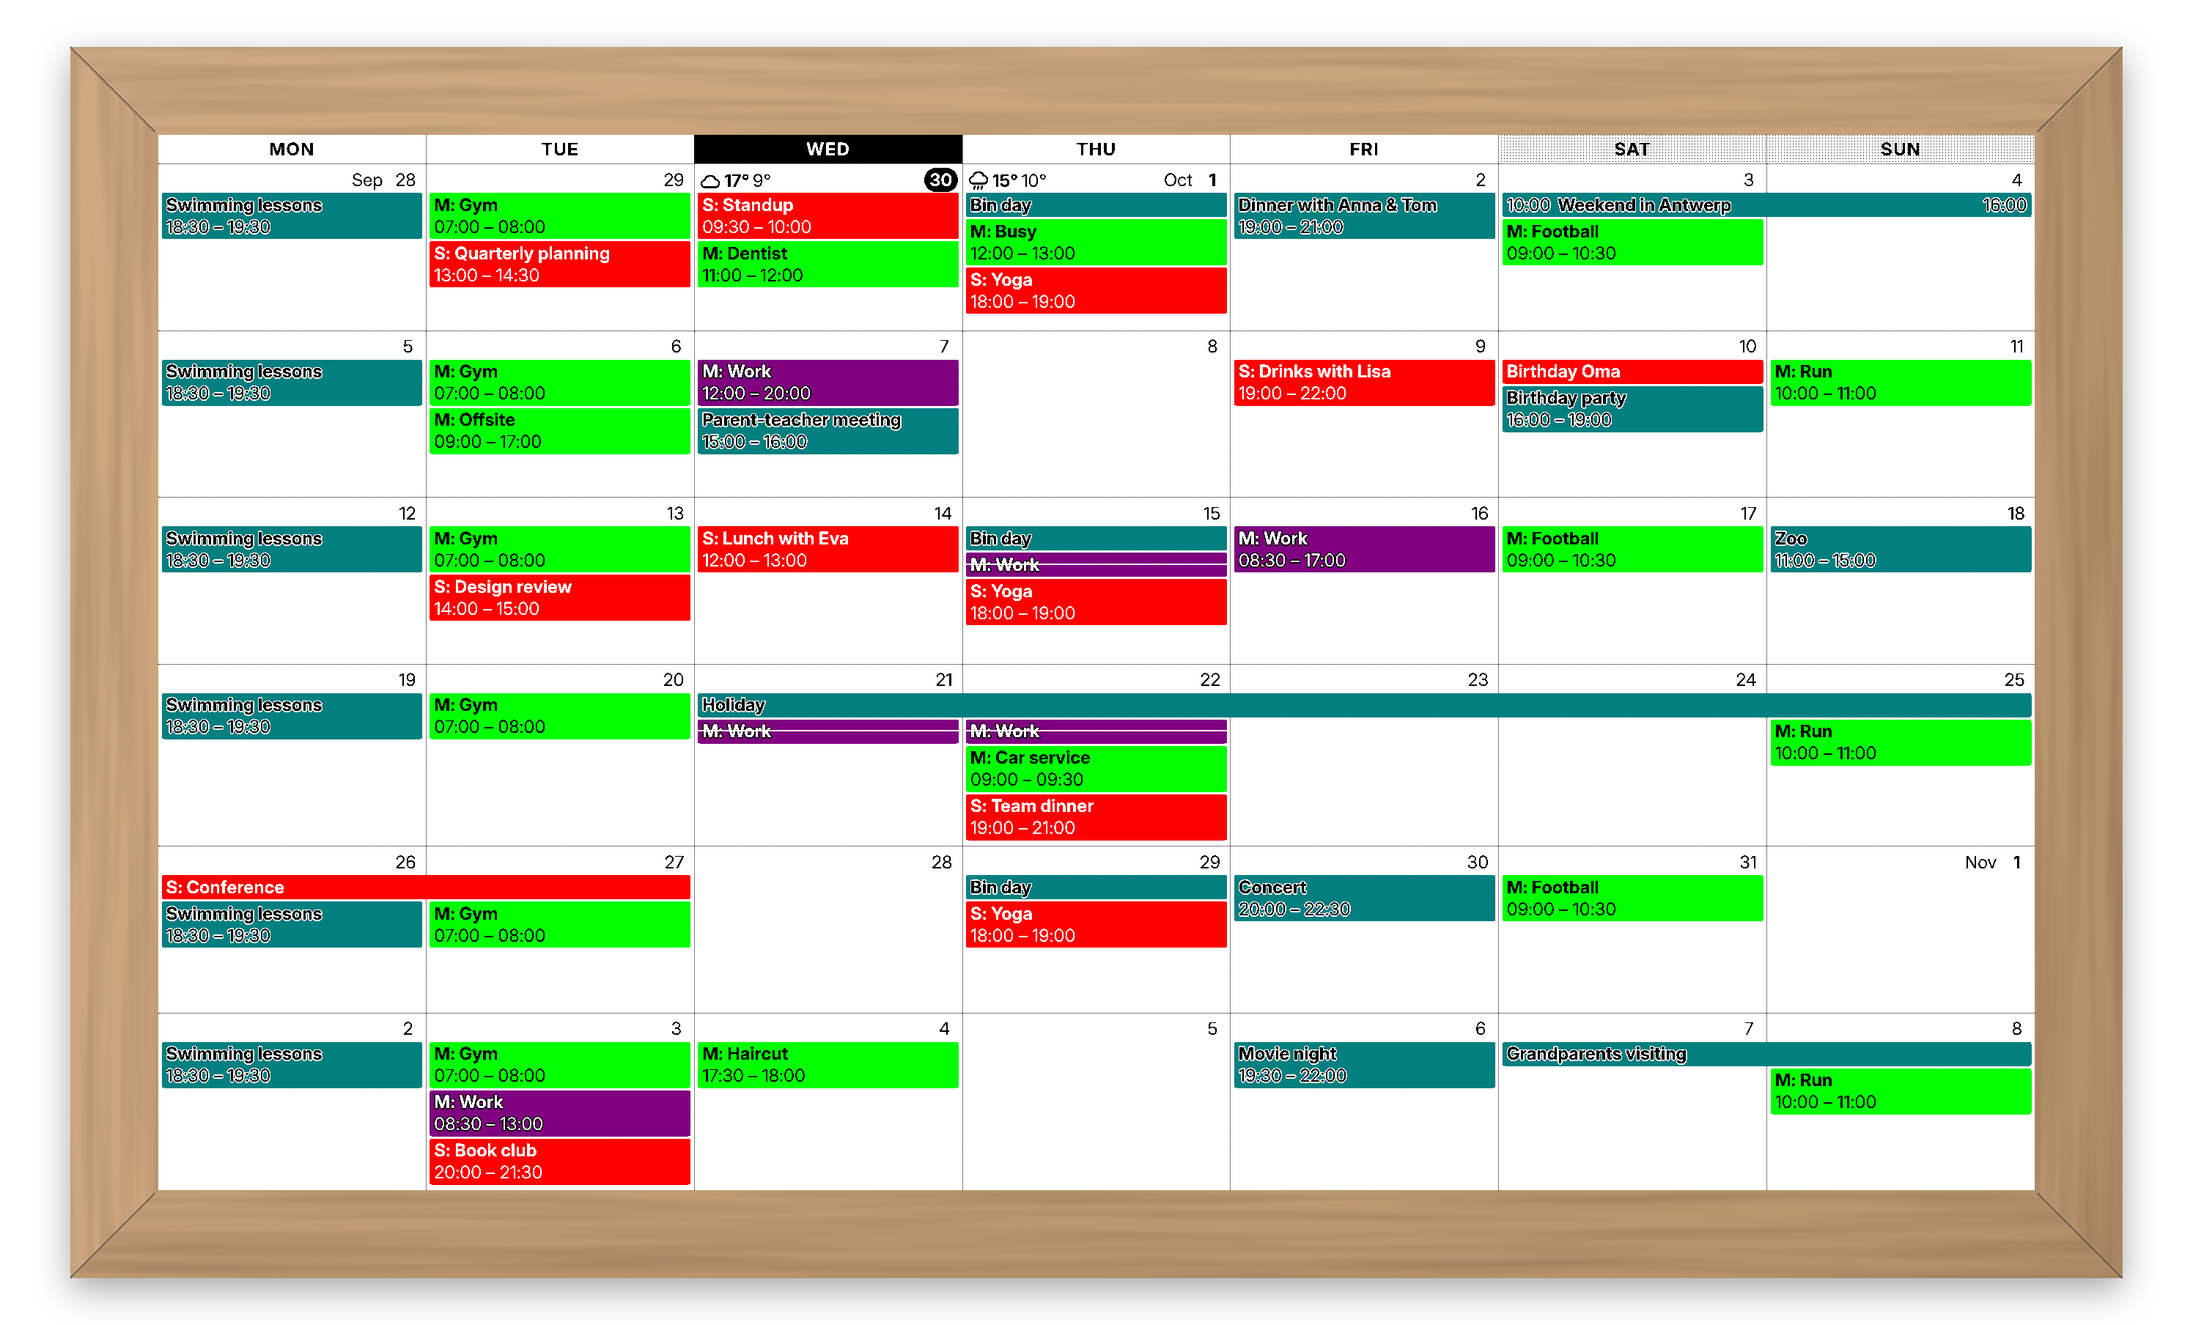
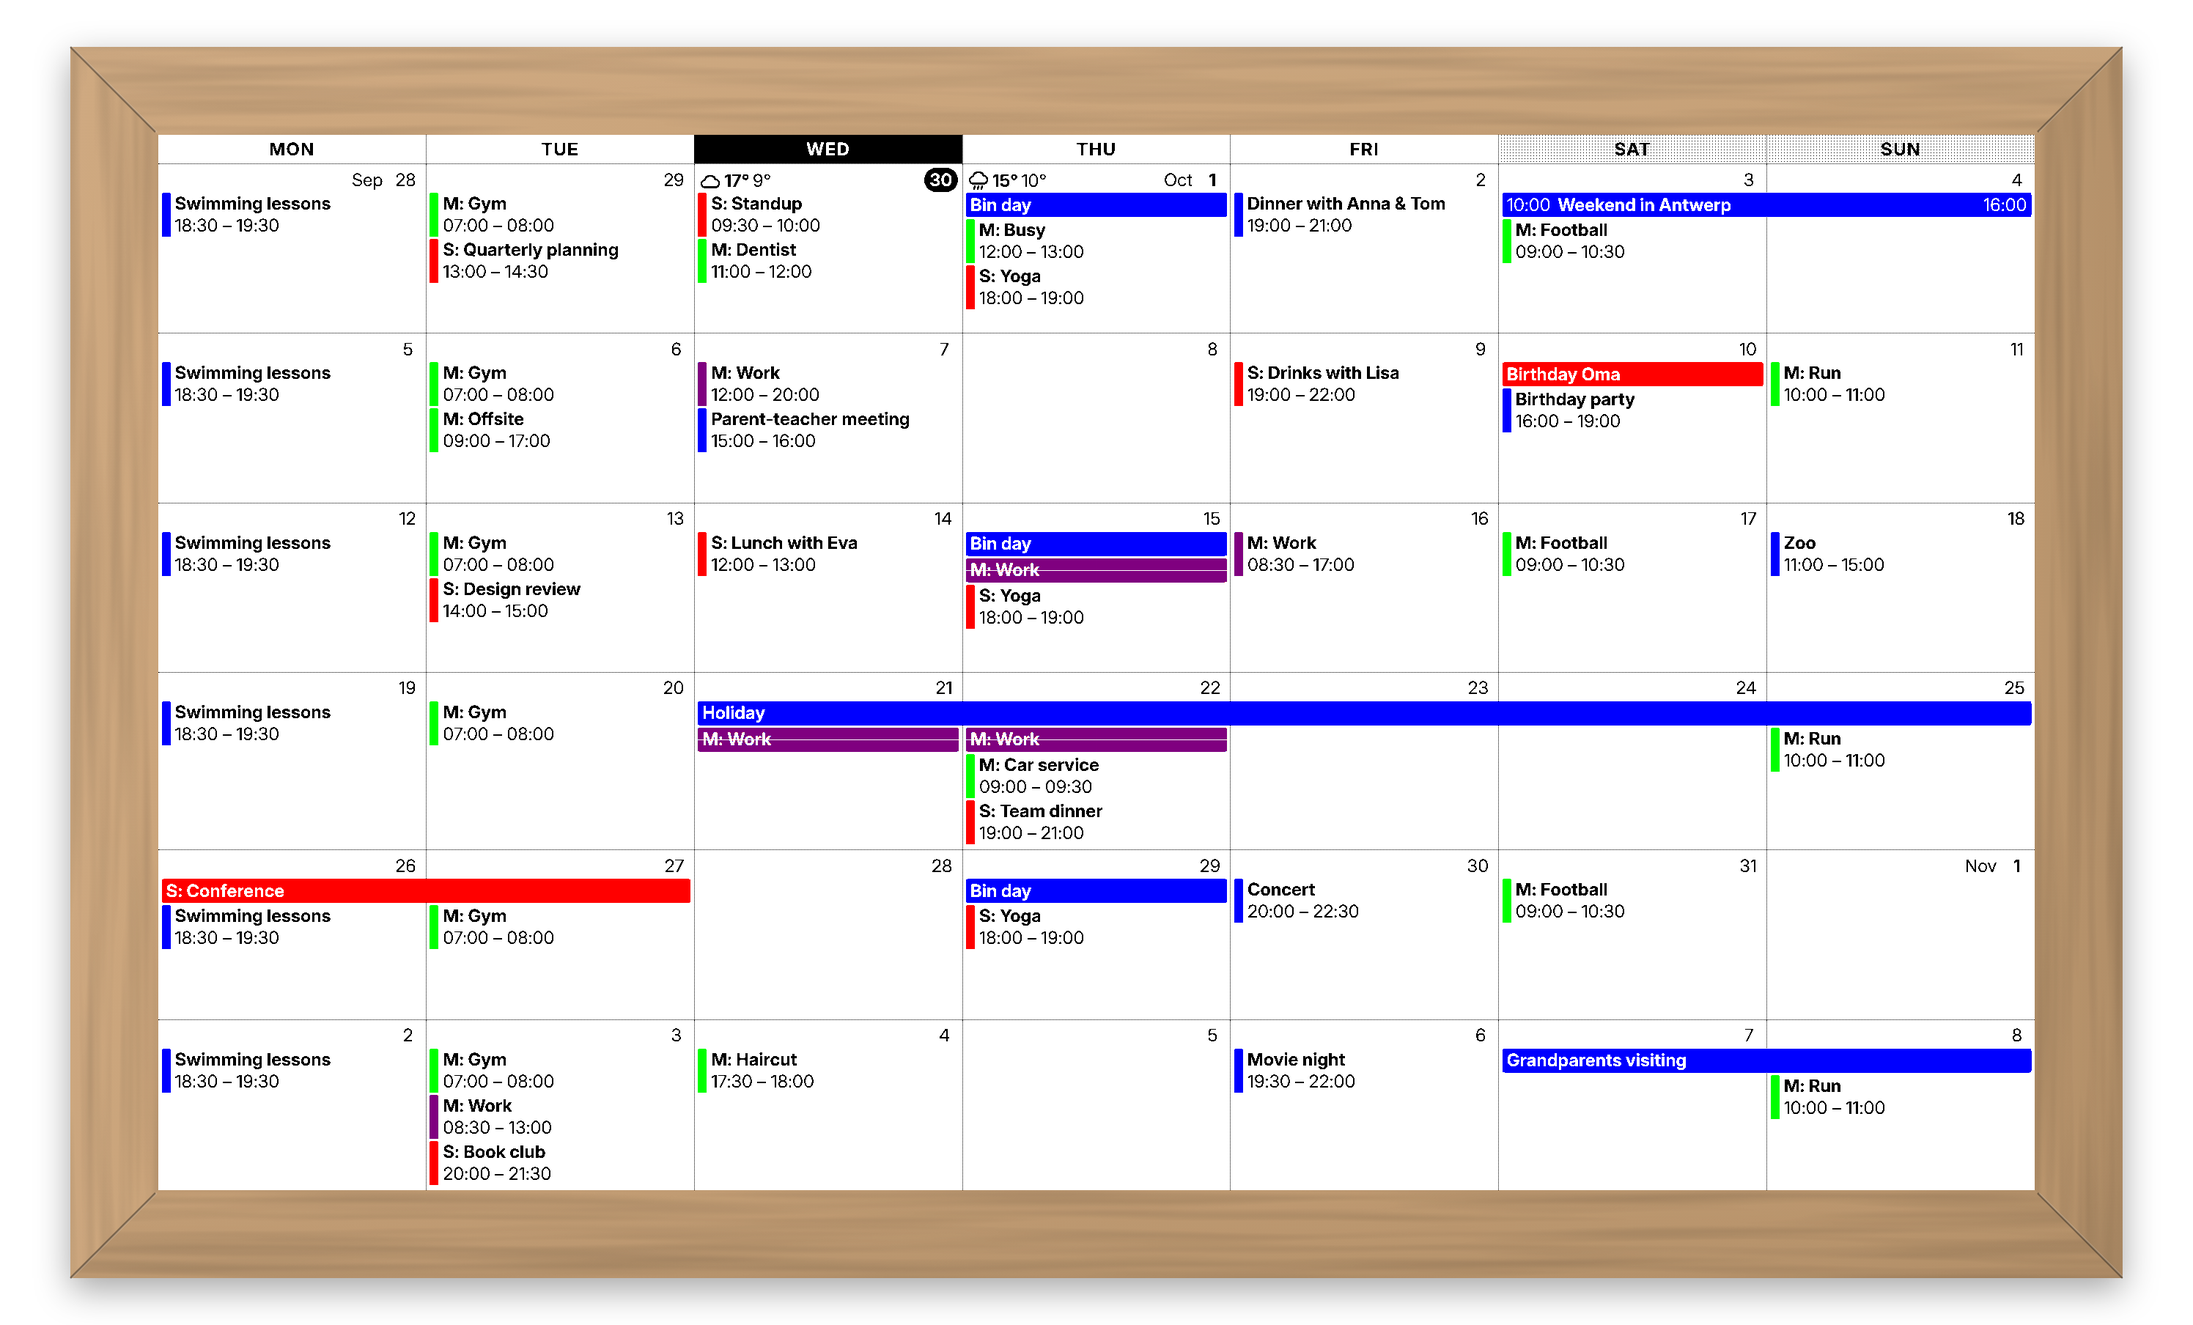
Frame: bars and bands for coloured calendars, text colour by ink
On a colour panel with a few inks (the TRMNL Frame's Spectra 6):

- New setting Color style. Bars and bands (default): a coloured calendar's
  timed events keep black text on paper next to a bar in the colour; all-day
  events and events over several days stay filled bands. Filled events fills
  every event, as before and as other screens do.
- Text colour by ink: the inks print darker than their screen colours, so
  white text on every ink but yellow and on an even mix of two dark inks
  (purple, cyan, dark shades), black on yellow and its tints. The outline is
  only for a pattern of a dark and a light ink. Read from what the framework
  paints (background colour and the pattern's fills).
- Shared calendar colours snap to what the panel prints evenly: an ink,
  purple or teal, black or white for a grey.

The TRMNL X and OG are unchanged.

Claude-Session: https://claude.ai/code/session_017arraexGkTKqtM3A8ayfAW

diff --git a/plugin/trmnl-com-polling/tests/plugin_spec.rb b/plugin/trmnl-com-polling/tests/plugin_spec.rb
@@ -77,16 +77,28 @@ RSpec.describe 'Rolling Month Calendar (Home Assistant)' do
     [...document.querySelectorAll('.mono-event')].map(function(el) {
       var title = el.querySelector('.mono-event-title') || el;
       var style = getComputedStyle(title), text = style.color;
-      // a dither pattern (1-/2-bit, a tint on the Frame) mixes inks: the text needs its outline
-      var patterned = /url\\(/.test(getComputedStyle(el).backgroundImage);
+      // a dither pattern (1-/2-bit, a tint on the Frame) mixes inks: the text needs its outline,
+      // or to stand out from every ink in it (the Frame's purple: red and blue, white text)
+      var box = getComputedStyle(el), patterned = /url\\(/.test(box.backgroundImage);
       var stroke = el.classList.contains('text-stroke') && style.getPropertyValue('--tn-text-stroke-color').trim();
+      var fills = [box.backgroundColor];
+      if (patterned && stroke) fills = [stroke];
+      else if (patterned) {
+        fills = (decodeURIComponent(box.backgroundImage).match(/<path\\b[^>]*>/g) || [])
+          .map(function(path) { return (/\\bfill=['"]([^'"]+)['"]/.exec(path) || [0, 'black'])[1]; })
+          .concat(/, 0\\)$/.test(box.backgroundColor) ? [] : [box.backgroundColor]);
+      }
       var probe = document.createElement('span');
-      probe.style.color = stroke || text;
       title.appendChild(probe);
-      var fill = patterned ? getComputedStyle(probe).color : getComputedStyle(el).backgroundColor;
+      var lum = function(c) {
+        probe.style.color = c;
+        var v = getComputedStyle(probe).color.match(/[\\d.]+/g).map(Number);
+        return 0.299 * v[0] + 0.587 * v[1] + 0.114 * v[2];
+      };
+      var worst = fills.map(function(fill) { return [title.textContent, fill, text, Math.abs(lum(fill) - lum(text))]; })
+        .sort(function(a, b) { return a[3] - b[3]; })[0];
       probe.remove();
-      var lum = function(c) { var v = c.match(/[\\d.]+/g).map(Number); return 0.299 * v[0] + 0.587 * v[1] + 0.114 * v[2]; };
-      return [title.textContent, fill, text, Math.abs(lum(fill) - lum(text))];
+      return worst;
     }).filter(function(e) { return e[3] < 100; }).map(function(e) { return e.slice(0, 3); })
   JS
 
@@ -104,17 +116,37 @@ RSpec.describe 'Rolling Month Calendar (Home Assistant)' do
   end
 
   # Colour names print in the Frame's inks, greys and tints as patterns, which get the 1-bit
-  # treatment (outlined text, weekends shaded in the header only), white text outlined in black
-  # on a dark mix; each event's text stays readable
-  it 'draws readable events in colour on the Frame' do
-    colors = custom_fields.merge(calendar_colors: 'red,gray-35,purple-30')
+  # treatment (weekends shaded in the header only). With "Color style" on Filled events every
+  # event is filled: plain text on an ink and on an even mix of two dark inks (purple-30),
+  # outlined text on a pattern of a dark and a light ink (a grey); each stays readable
+  it 'draws readable filled events in colour on the Frame' do
+    colors = custom_fields.merge(calendar_colors: 'red,gray-35,purple-30', color_style: 'fill')
     screen = trmnl.render(**FRAME, now:, custom_fields: colors, mocks:)
 
     expect(screen).to have_text('Parent-teacher meeting')
     expect(screen).to have_css('.trmnl-calendar--patterned')
-    expect(screen).to have_css('.mono-event.bg--gray-35.text-stroke')
+    expect(screen).to have_css('.mono-event--fill.bg--red', text: 'Parent-teacher meeting')
+    expect(screen).to have_css('.mono-event.bg--gray-35.text-stroke.text-stroke--black')
     expect(screen).to have_no_css('.mono-event.bg--red.text-stroke')
-    expect(screen).to have_css('.mono-event.bg--purple-30.text-stroke.text-stroke--black')
+    expect(screen).to have_css('.mono-event.bg--purple-30')
+    expect(screen).to have_no_css('.mono-event.bg--purple-30.text-stroke')
+    expect(screen.evaluate(UNREADABLE_EVENTS)).to eq([])
+    expect(screen).to have_no_overflow(except: CLIPPED)
+  end
+
+  # ... and by default (Bars and bands) only all-day events and events over several days: a
+  # timed event keeps black text on white, next to a bar in the calendar's colour, with an
+  # edge where the colour is as light as the paper (yellow)
+  it 'draws timed events with a bar in the colour on the Frame' do
+    colors = custom_fields.merge(calendar_colors: 'red,yellow,purple-30')
+    screen = trmnl.render(**FRAME, now:, custom_fields: colors, mocks:)
+
+    expect(screen).to have_css('.mono-event--bar:has(.mono-event-bar.bg--red.trmnl-bar--ink)', text: 'Parent-teacher meeting')
+    expect(screen).to have_no_css('.mono-event-bar.bg--red.trmnl-bar--edge')
+    expect(screen).to have_css('.mono-event-bar.bg--yellow.trmnl-bar--ink.trmnl-bar--edge')
+    expect(screen).to have_css('.mono-event-bar.bg--purple-30.trmnl-bar--ink')
+    expect(screen).to have_no_css(".mono-event--bar[class*='bg--']")
+    expect(screen).to have_css('.mono-event--fill.bg--red', text: 'Bin day')
     expect(screen.evaluate(UNREADABLE_EVENTS)).to eq([])
     expect(screen).to have_no_overflow(except: CLIPPED)
   end

diff --git a/plugin/trmnl-com-merge/tests/plugin_spec.rb b/plugin/trmnl-com-merge/tests/plugin_spec.rb
@@ -72,19 +72,39 @@ RSpec.describe 'Rolling Month Calendar' do
   # calendar without one, matched to the screen's palette. Events that come without one
   # (CalDAV drops it from an event with a COLOR of its own) take the calendar's.
   SHARED = { 'Swimming lessons' => '#33B679' }.freeze # Sage
+  let(:shared) do
+    variables.transform_values do |data|
+      next data unless data.is_a?(Hash) && data['events']
+
+      data.merge('events' => data['events'].map { |e| e.merge('background_color' => SHARED[e['summary']]).compact })
+    end
+  end
+
+  # ... a grey on the TRMNL X; on the Frame the green ink, with "Color style" on Filled events
   [['v2', 'bg--gray-'], ['frame', 'bg--green']].each do |device, fill|
     it "draws the colours calendar plugins share on #{device}" do
-      shared = variables.transform_values do |data|
-        next data unless data.is_a?(Hash) && data['events']
-        data.merge('events' => data['events'].map { |e| e.merge('background_color' => SHARED[e['summary']]).compact })
-      end
       palette = device == 'frame' ? { palette: 'color-6a' } : {}
-      screen = trmnl.render(device:, **palette, now:, variables: shared, custom_fields:)
+      screen = trmnl.render(device:, **palette, now:, variables: shared,
+                            custom_fields: custom_fields.merge('color_style' => 'fill'))
 
-      expect(screen).to have_css("[class*='#{fill}']", text: 'Swimming lessons')
-      expect(screen).to have_css("[class*='#{fill}']", text: 'Bin day')
+      expect(screen).to have_css(".mono-event--fill[class*='#{fill}']", text: 'Swimming lessons')
+      expect(screen).to have_css(".mono-event--fill[class*='#{fill}']", text: 'Bin day')
       expect(screen).to have_no_problems
     end
+  end
+
+  # ... and by default on the Frame (Bars and bands) a bar in the ink next to a timed event,
+  # which keeps its black text on white; the all-day event stays a band, with white text
+  it 'draws the colours calendar plugins share as bars and bands on the Frame' do
+    screen = trmnl.render(**FRAME, now:, variables: shared, custom_fields:)
+
+    expect(screen).to have_css('.mono-event--bar:has(.mono-event-bar.bg--green.trmnl-bar--ink)', text: 'Swimming lessons')
+    expect(screen).to have_no_css(".mono-event--bar[class*='bg--']")
+    expect(screen).to have_css('.mono-event--fill.bg--green', text: 'Bin day')
+    expect(screen.evaluate(<<~JS)).to eq('rgb(255, 255, 255)')
+      getComputedStyle(document.querySelector('.mono-event--fill.bg--green .mono-event-title')).color
+    JS
+    expect(screen).to have_no_problems
   end
 
   it 'draws an empty grid when no calendar is chosen' do

diff --git a/README.md b/README.md
@@ -84,11 +84,18 @@ The [Frame](https://trmnl.com/blog/introducing-frame) is a 31.5" color screen (2
 Spectra 6). The calendar fills it like any other screen, but TRMNL.com draws its text at
 the regular size, which is small from across a room. Set **Text Scale** to Large or
 X-Large on the device (or on the calendar's playlist item): the calendar's text follows
-it, and the grid stays as it is. For colored calendars, use the panel's own inks in
-**Calendar colors**: `red`, `green`, `blue` and `yellow` print solid, other names (greys,
-`blue-40`…) as dot patterns. A calendar left at `-` takes its own color from the calendar
-plugin, matched to the nearest ink or pattern, as below (Google's Peacock, Sage, Tangerine
-and Grape).
+it, and the grid stays as it is.
+
+For colored calendars, use the panel's own inks in **Calendar colors**: `red`, `green`,
+`blue` and `yellow` print solid, and `purple` and `cyan` (a teal) as an even mix of two
+inks. Other names (greys, `orange`, `blue-40`…) are coarser dot patterns. A calendar left
+at `-` takes its own color from the calendar plugin, matched to the nearest of those six
+(or black, for a grey), as below: Google's Peacock, Sage, Tangerine and Grape.
+
+Text on an ink has much less contrast than black on white. So on the Frame only all-day
+events and events over several days are filled with the calendar's color; a timed event
+keeps its black text, next to a bar in the color. Set **Color style** to `Filled events`
+to fill them all, as other screens do.
 
 ![The calendar on the TRMNL Frame](docs/preview-frame.png)
 
@@ -143,6 +150,7 @@ toggles.
 |---|---|---|
 | Calendar prefixes | – | Text shown before each event title, per calendar (e.g. `W:`) |
 | Calendar colors | – | Event background per calendar: a TRMNL color name (`black`, `gray-10` … `gray-75`, `red`, `blue-40`, …) or a hex color |
+| Color style | Bars and bands | On a color e-paper screen (the TRMNL Frame): `Bars and bands` gives a colored calendar's timed events black text next to a bar in its color, and fills only all-day events and events over several days; `Filled events` fills every event. Other screens always fill |
 | Usual week | – | Per calendar with a weekly routine (e.g. working hours), such as `Mon-Thu 08:30-17:00 Work`: only what differs from it is shown, see [Usual week](#usual-week) |
 | Usual events | Hidden | `Without times` keeps the events that match a Usual week, without their times |
 
@@ -229,15 +237,23 @@ show, with a weather forecast and **Weather temperatures** on `High and low` (se
     to a grey), dither patterns with outlined text on 1-/2-bit screens, and real
     colors on full-color screens. A color panel with a few inks, like the TRMNL Frame's,
     prints the names it has an ink for solid (`red`, `green`, `blue`, `yellow`) and the
-    rest as patterns with outlined text, like a 1-bit screen.
+    rest as patterns of two inks. Its inks are darker than they look on a monitor, so
+    text is white on every ink but yellow, and on a mix of two dark inks (`purple`,
+    `cyan`, `red-25`); a pattern of a dark and a light ink (`orange`, `pink`, the greys)
+    gets outlined text, like a 1-bit screen.
   - Hex colors are painted as-is. A 1-bit screen snaps them to black or white.
   - On TRMNL.com, a calendar whose color is `-` or missing takes the color its calendar
     plugin shares, if any: the calendar's color from Google Calendar and CalDAV (iCloud,
     Fastmail, ...), and Google's event colors.
     It becomes the framework color nearest to it: a grey as light as it on greyscale
-    screens, the nearest hue on a color panel with a few inks (the panel's own ink for a
-    vivid color, solid), and the color itself on full-color screens. Use `none` for no
-    color.
+    screens, and the color itself on full-color screens. A color panel with a few inks
+    gets only what it prints evenly: the nearest ink, or `purple` or `cyan`, and black or
+    white for a grey. So two calendars in similar colors (red and orange) can come out
+    the same there; give one its own color. Use `none` for no color.
+  - On a color panel with a few inks, **Color style** decides what is filled: by default
+    (`Bars and bands`) only all-day events and events over several days, while a timed
+    event gets a bar in the color (wider than the grey one) and keeps black text;
+    `Filled events` fills every event, as described above.
   - `white` (or `#fff`) gets a thin grey outline, dotted on 1-/2-bit screens, like the
     grid lines, so its events don't vanish on a white day. Where such an event goes on
     in another week, that side of the outline stays open.

diff --git a/CLAUDE.md b/CLAUDE.md
@@ -230,8 +230,17 @@ greys and any colour it has no ink for as dither patterns (a `background-image`)
 black, white, red, green, blue and yellow are solid. So the 1-bit treatment (header-only
 weekend shading, dotted lines, outlined text on patterned fills) keys off
 `.trmnl-calendar--patterned`, which the JS sets from a probe of `bg--gray-75`, never off
-`.screen--1bit`/`--2bit`; a fill's own pattern is probed per token, and a dark mix
-(`purple-30`, `green-25`) gets white text outlined in black, judged from the token's colour. `render.mjs --device
+`.screen--1bit`/`--2bit`; a fill's own pattern is probed per token. The inks print darker
+than their screen colours (green is a mid-tone), so on a panel with a few inks (`inkPanel`:
+`screen--color-*` but not `color-full`) the JS reads the inks a fill is made of from the
+probe (`inkMix`: background colour plus the pattern SVG's fills): all dark (an ink, `purple`,
+`cyan`, `red-25`) takes plain white text, all light (`yellow`, its tints) plain black, and
+only a mix of both the outline. Shared colours snap to what prints evenly (`PRINTED_HUES`),
+and `color_style` (default `bars`) draws a coloured calendar's timed events as a bar in the
+colour with black text, filling only all-day and multi-day ones; all of it is for those
+panels only, the X and OG must not change. Judge Frame designs in ink colours, not pure RGB
+(the framework's `screen--preview-colors` classes), and view dither patterns 1:1 or
+Lanczos-scaled: image viewers alias them into wrong colours. `render.mjs --device
 frame` maps to the six inks; at `--scale regular` (TRMNL.com) Chromium blurs the pixel
 fonts, which TRMNL (Firefox) doesn't, so trust the trmnlp specs' Frame screens there
 (`palette: 'color-6a'`: trmnlp picks `bw` by itself, upstream item 51).

diff --git a/UPSTREAM.md b/UPSTREAM.md
@@ -90,10 +90,14 @@ treats its native plugins as source-available and is fine with them being remixe
   (`colorize_events`). HA has none, so each calendar gets a configured colour. Framework
   colour names go through `bg--*` classes; on patterned fills (1-/2-bit, tints on a colour
   panel) the text gets `text-stroke`, like upstream's `adaptiveEventStroke`; on a colour
-  panel a dark mix gets white text outlined in black (`text-stroke--black`). A calendar
+  panel a mix of a dark and a light ink gets it too (white text outlined in black,
+  `text-stroke--black`, where it is mostly dark), while an ink or an even mix takes plain
+  white or black text. A calendar
   without a configured colour takes the one TRMNL's calendar plugins share per event
   (Google's `background_color`, upstream's `colorize_events` colours), matched to the
-  nearest framework colour for the screen.
+  nearest framework colour for the screen. On a colour panel with a few inks (the TRMNL
+  Frame), **Color style** leaves a coloured calendar's timed events unfilled by default: a
+  bar in the colour and black text, as upstream draws events without a colour.
 - **Added**: optional per-calendar prefixes, a line above the grid naming any
   calendar that failed to load, and an optional daily weather forecast (icon and high,
   optionally the low) next to the day numbers from today on: from a Home Assistant
